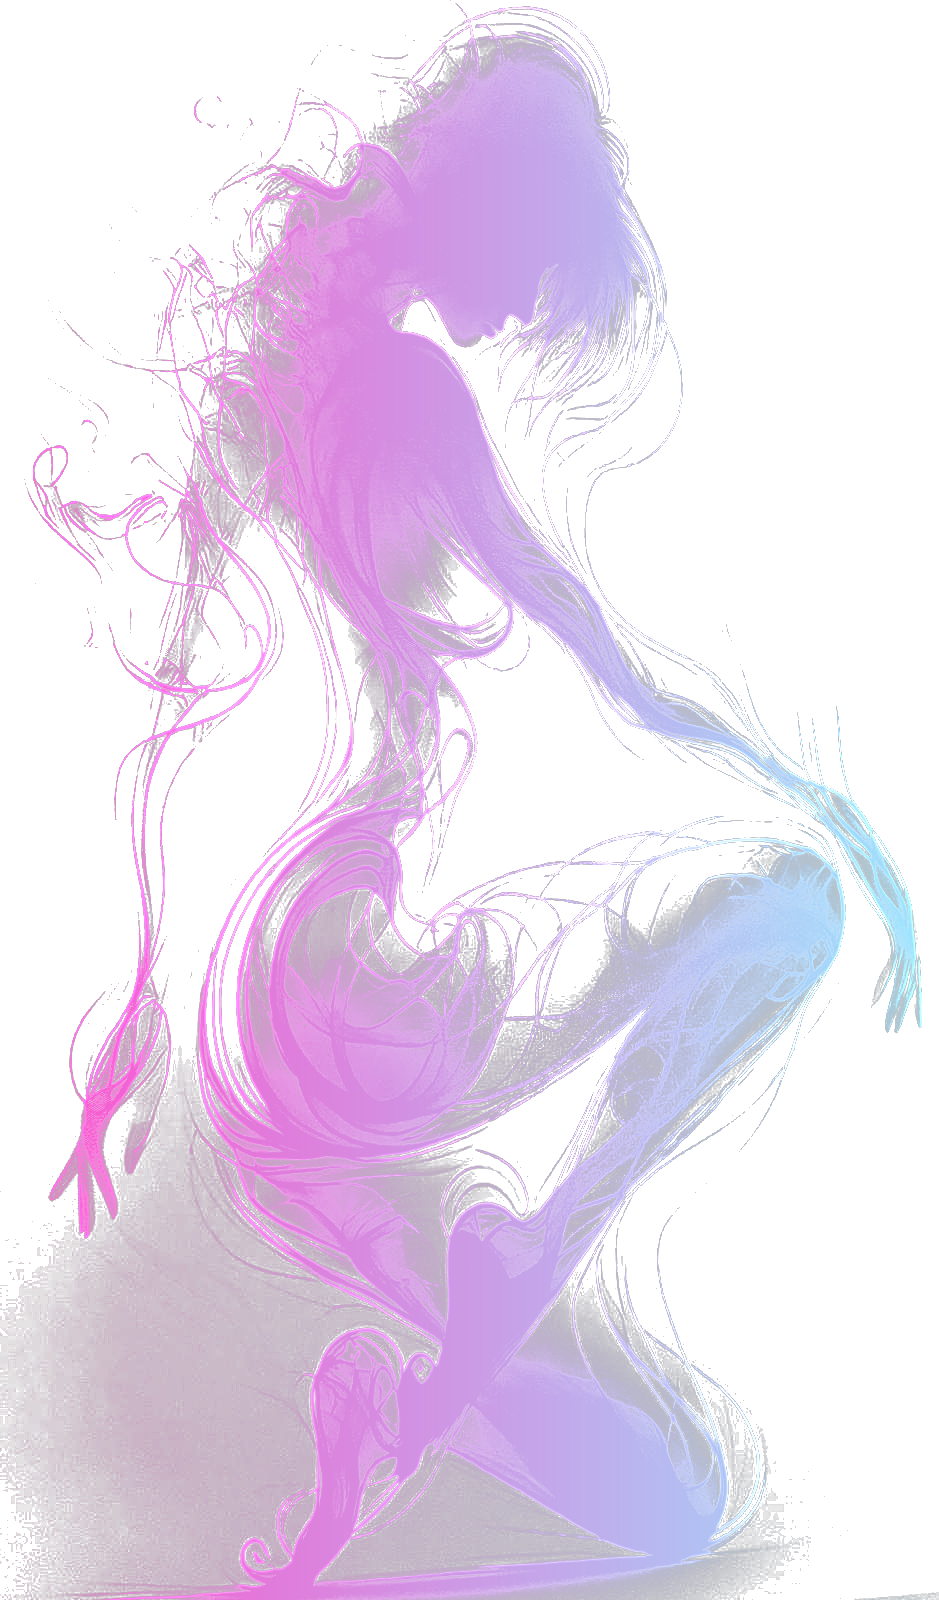
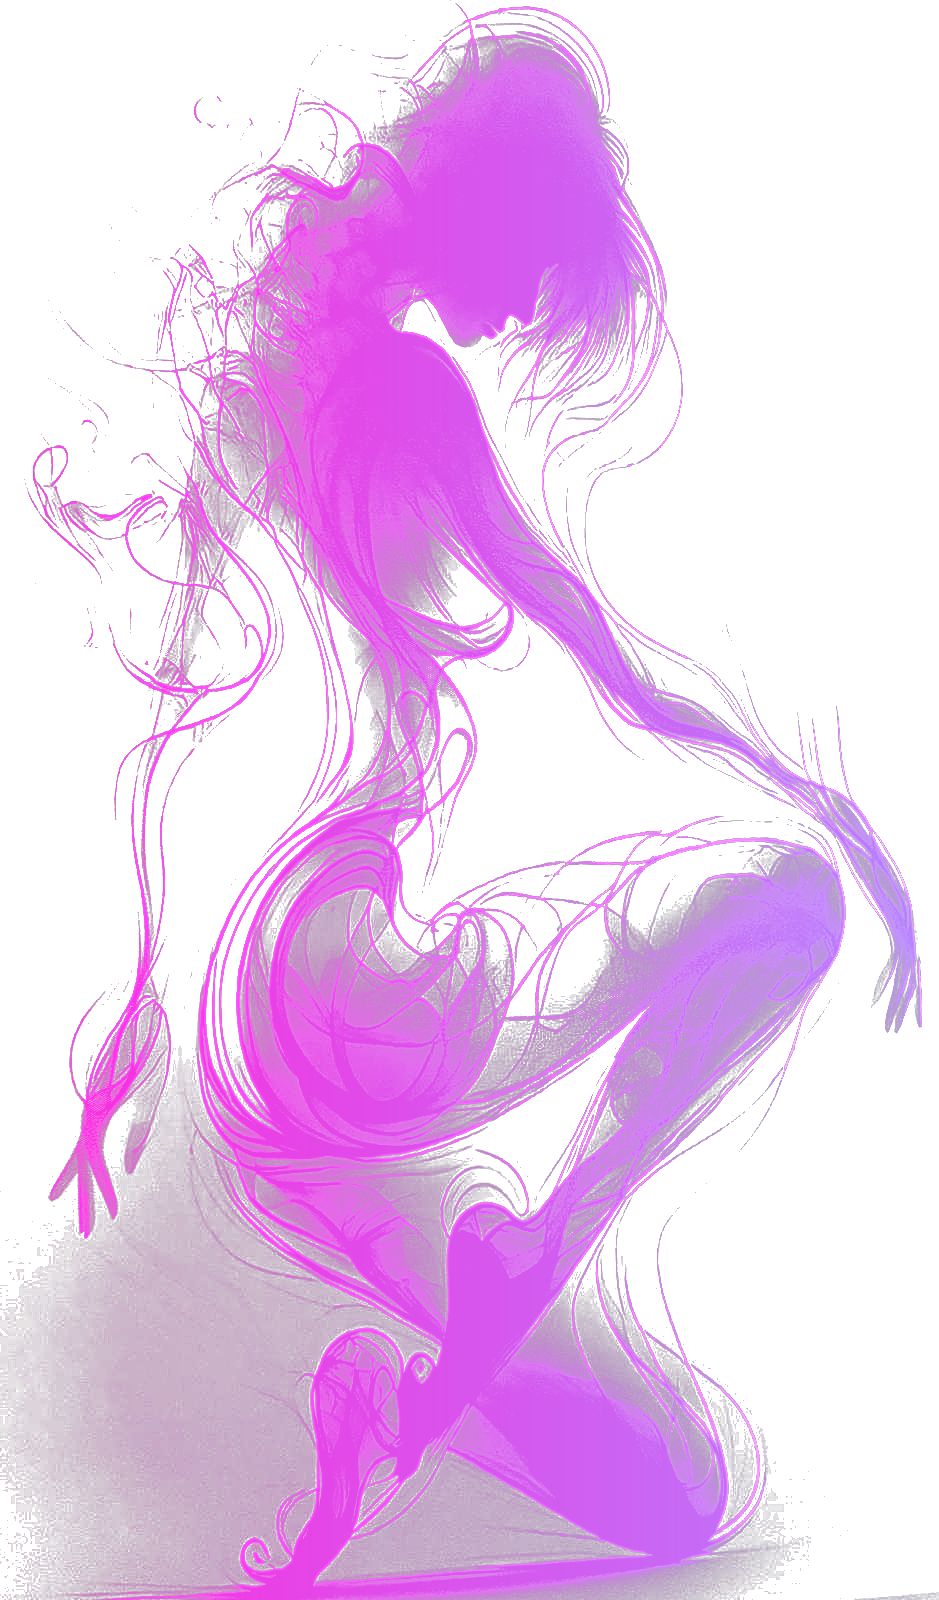
fix: FloqCast V4 arrow, portrait LED, smooth ring, cleanup
Point cast arrow phone→LED, narrow LED to portrait, soften nightlife
ring gradient, and remove red dashes plus phone-screen green line.

diff --git a/icon-review-square-green-halo.html b/icon-review-square-green-halo.html
@@ -104,8 +104,9 @@
     <div class="block pick">
       <h2>V4 — silhouette photo + cast chrome</h2>
       <p>
-        Your silhouette (Image 1) cut out and neon-tinted into the LED + phone screens.
-        Transparent outside the nightlife ring. Phone, wireless, arrow, large LED, FloqCast — all present.
+        Your silhouette cut out and neon-tinted into the LED + phone screens.
+        Transparent outside the nightlife ring. Portrait LED, arrow phone→LED, smooth transient ring;
+        red dashes and phone green line removed.
       </p>
       <div class="row">
         <figure class="hero">
